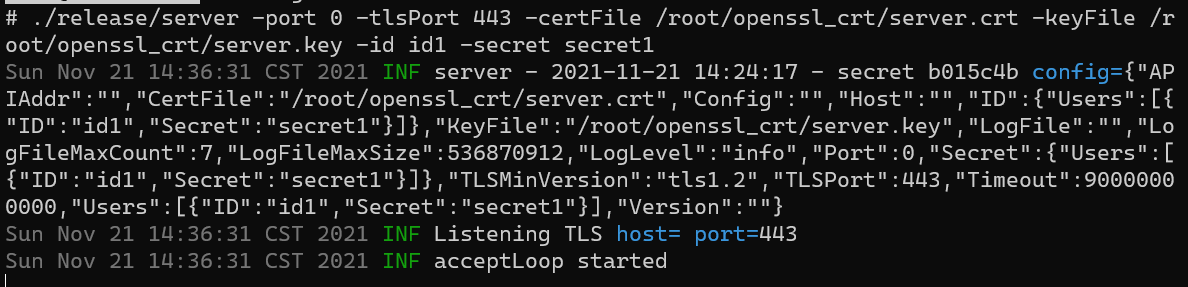
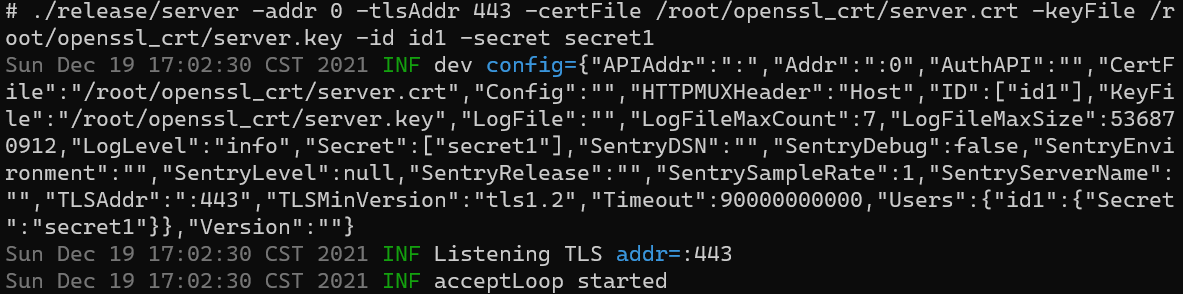
修复文档中服务端的 addr
修复文档目录无法跳转

Changed region(s): [[0.0, 0.0, 1.0, 1.0]]

diff --git a/README.md b/README.md
@@ -13,9 +13,9 @@
 
 - [工作原理](#工作原理)
 - [示例](#示例)
-  - [HTTP 内网穿透](#HTTP-内网穿透)
-  - [HTTPS 内网穿透](#HTTPS-内网穿透)
-  - [TLS 加密客户端服务端之间的 HTTP](#TLS-加密客户端服务端之间的-HTTP)
+  - [HTTP 内网穿透](#http-内网穿透)
+  - [HTTPS 内网穿透](#https-内网穿透)
+  - [TLS 加密客户端服务端之间的 HTTP](#tls-加密客户端服务端之间的-http)
 - [参数](#参数)
   - [客户端参数](#客户端参数)
   - [服务端参数](#服务端参数)
@@ -227,11 +227,11 @@ options:
 第 i 个 id 与第 i 个 secret 相匹配。下面两种启动方式是等价的。
 
 ```shell
-./release/server -port 8080 -id id1 -secret secret1 -id id2 -secret secret2
+./release/server -addr 8080 -id id1 -secret secret1 -id id2 -secret secret2
 ```
 
 ```shell
-./release/server -port 8080 -id id1 -id id2 -secret secret1 -secret secret2
+./release/server -addr 8080 -id id1 -id id2 -secret secret1 -secret secret2
 ```
 
 ![img](./doc/image/服务端命令行users.png)
@@ -264,9 +264,9 @@ options:
   logFileMaxCount: 1234
   logFileMaxSize: 1234
   logLevel: debug
-  port: 1234
+  addr: 1234
   timeout: 1234m1234ms
-  tlsPort: 1234
+  tlsAddr: 1234
   tlsVersion: tls1.3
   users: testdata/users.yaml
 ```

diff --git a/doc/English.md b/doc/English.md
@@ -232,11 +232,11 @@ top to bottom.
 The i-th id matches the i-th secret. The following two startup methods are equivalent.
 
 ```shell
-./release/server -port 8080 -id id1 -secret secret1 -id id2 -secret secret2
+./release/server -addr 8080 -id id1 -secret secret1 -id id2 -secret secret2
 ```
 
 ```shell
-./release/server -port 8080 -id id1 -id id2 -secret secret1 -secret secret2
+./release/server -addr 8080 -id id1 -id id2 -secret secret1 -secret secret2
 ```
 
 #### Through The Users Configuration File
@@ -267,9 +267,9 @@ options:
   logFileMaxCount: 1234
   logFileMaxSize: 1234
   logLevel: debug
-  port: 1234
+  addr: 1234
   timeout: 1234m1234ms
-  tlsPort: 1234
+  tlsAddr: 1234
   tlsVersion: tls1.3
   users: testdata/users.yaml
 ```
